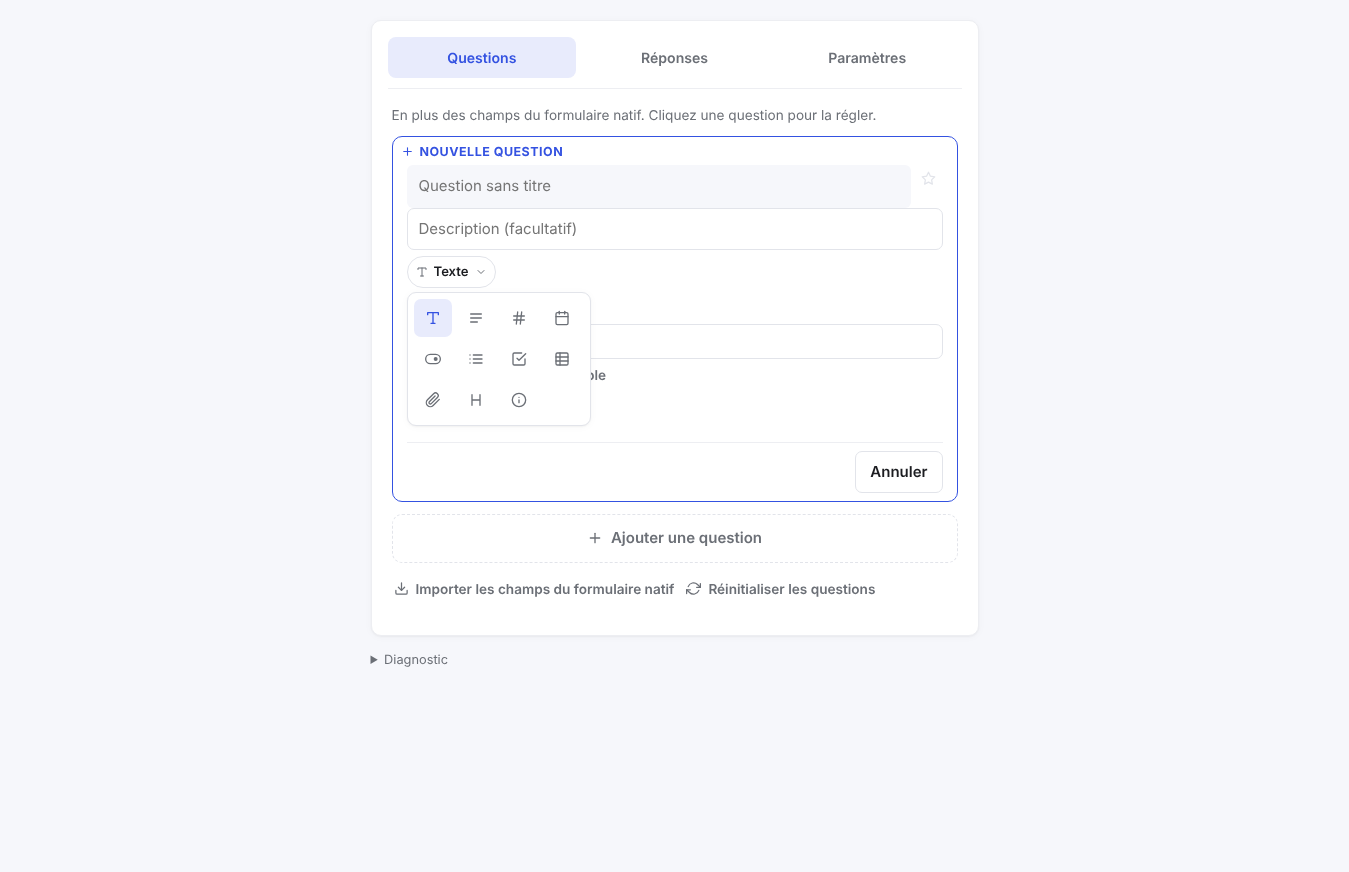
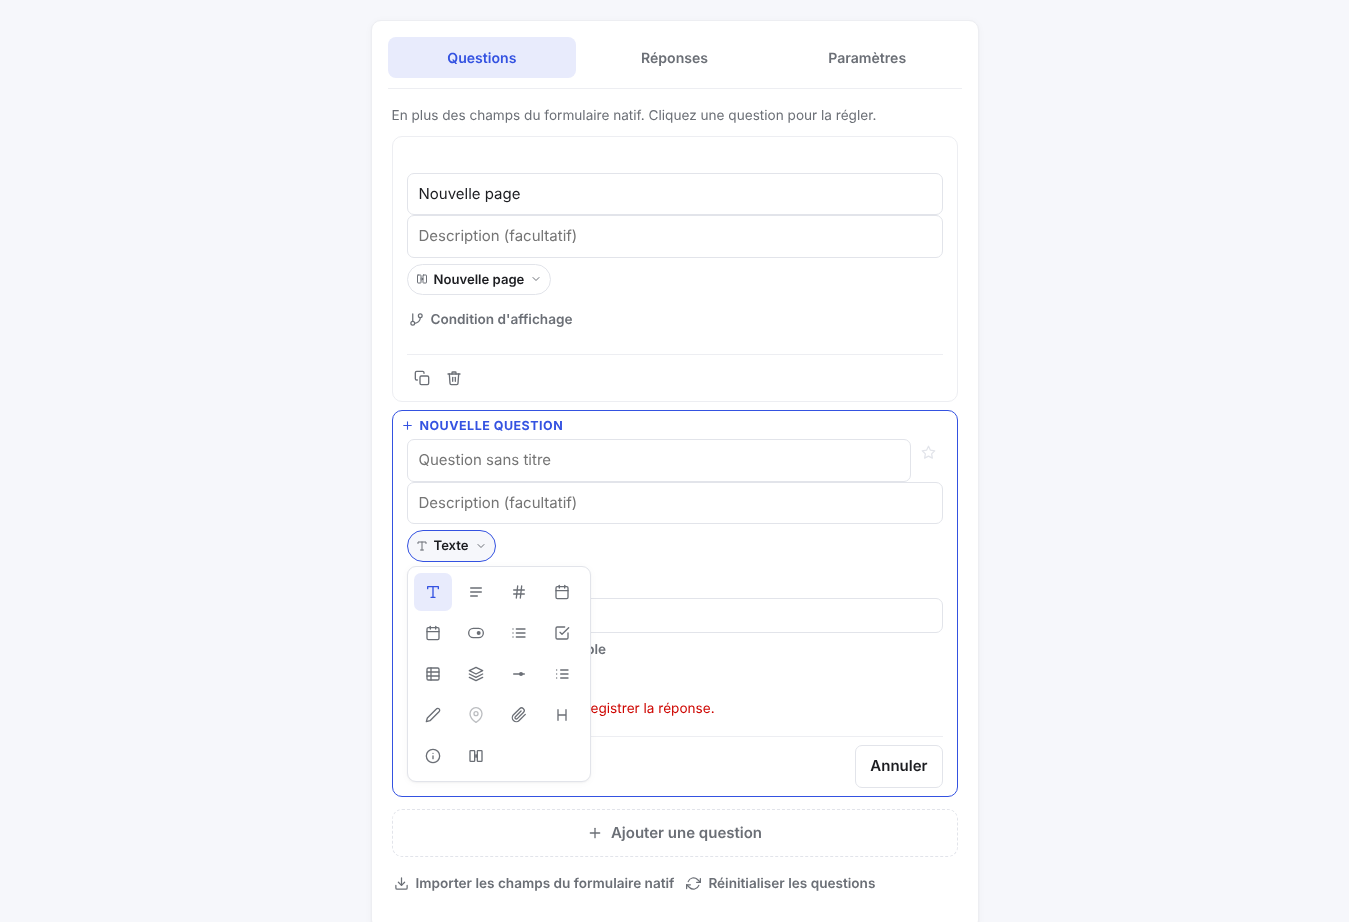
Rafraîchit les captures d'écran du catalogue avec les nouveaux types de question
Reprend 3 des 7 captures de docs/07-checklist-catalogue-gristgouv.md avec
Playwright contre l'environnement de test Grist Docker, maintenant que main
inclut les nouveaux types de question (date et heure, liste de références,
échelle, classement, signature/dessin, lieu sur carte grisé par défaut) et
le saut d'étape conditionnel entre pages. Met à jour la légende des images
et la remarque sur leur fraîcheur en conséquence.

Claude-Session: https://claude.ai/code/session_01EW5VPr8dfe5eSm4t33mKKk

diff --git a/docs/07-checklist-catalogue-gristgouv.md b/docs/07-checklist-catalogue-gristgouv.md
@@ -131,13 +131,13 @@ Retours bienvenus avant la demande d'ajout à gristgouv/widgets-config.
 
 ## 3. Captures d'écran
 
-**Pas exigées par le manifeste** (section 1), mais prises quand même pour le corps de la PR et l'annonce forum. Prises le 21 octobre 2026 avec Playwright (Chromium headless) contre un vrai environnement Grist auto-hébergé local (`tests/grist-env/start-grist-test.sh`), donc avec du vrai rendu, de vraies données de test (tables `Departements`/`Villes`), pas des maquettes :
+**Pas exigées par le manifeste** (section 1), mais prises quand même pour le corps de la PR et l'annonce forum. Prises le 21 octobre 2026 avec Playwright (Chromium headless) contre un vrai environnement Grist auto-hébergé local (`tests/grist-env/start-grist-test.sh`), donc avec du vrai rendu, de vraies données de test (tables `Departements`/`Villes`), pas des maquettes. **Reprises le même jour** après la fusion des commits de deux autres sessions qui ont ajouté de nouveaux types de question (date et heure, liste de références, échelle, classement, signature/dessin, lieu sur carte) et le saut d'étape conditionnel entre pages :
 
 | Fichier | Contenu |
 |---|---|
-| `docs/images/editeur-questions.png` | Écran concepteur, onglet **Questions**, formulaire natif « Reponses » détecté automatiquement, adresse de partage retrouvée |
-| `docs/images/editeur-nouvelle-question.png` | Même écran, carte « Nouvelle question » ouverte avec le sélecteur de type (11 icônes : texte, paragraphe, nombre, date, choix, liste, choix multiples, table, pièce jointe, titre, bloc d'info) |
-| `docs/images/editeur-parametres.png` | Onglet **Paramètres** : adresse à diffuser, QR code, apparence (titre, description, logo, couleur d'accent) |
+| `docs/images/editeur-questions.png` | Écran concepteur, onglet **Questions** : une carte « Nouvelle page » (étapes) et une carte « Échelle » (« Niveau de satisfaction », valeurs 1 à 5) déjà posées dans la liste |
+| `docs/images/editeur-nouvelle-question.png` | Sélecteur de type grand ouvert : les 20 types actuels (texte, paragraphe, nombre, date, date et heure, oui/non, choix, choix multiples, choix depuis une table, liste de références, échelle, classement, signature/dessin, lieu sur carte — visiblement grisé, dépendance externe non chargée par défaut —, pièces jointes, titre de section, bloc d'info, nouvelle page) |
+| `docs/images/editeur-parametres.png` | Onglet **Paramètres** : adresse à diffuser, QR code, apparence (titre, description, logo, couleur d'accent, forme des coins) |
 | `docs/images/repondant-bureau-clair.png` | Vue répondant (`public-form.html`), bureau (1280×900), thème clair, avec les vraies valeurs de référence (départements, villes) |
 | `docs/images/repondant-bureau-sombre.png` | Même vue, thème sombre (`prefers-color-scheme: dark`) |
 | `docs/images/repondant-mobile-clair.png` | Même vue, mobile (390×844), thème clair |
@@ -145,7 +145,7 @@ Retours bienvenus avant la demande d'ajout à gristgouv/widgets-config.
 
 Détail technique pour qui reproduirait ces captures : `public-form.html#form=<lien du formulaire natif publié>` lit la définition via `GET /api/s/<clé>/forms/<section>` en anonyme, donc aucune donnée du document outre ce que le formulaire natif expose déjà. L'écran éditeur a demandé de contourner localement un point de sécurité volontaire du widget — `poc/js/plugin-loader.js` ne charge `grist-plugin-api.js` que depuis `https://docs.getgrist.com` (liste blanche anti-usurpation, voir le commentaire du fichier), un hôte hors de la politique réseau de cet environnement d'agent. Contournement fait uniquement **côté navigateur, pour la capture**, en servant le même fichier que le conteneur Grist de test héberge lui-même (`http://localhost:8484/grist-plugin-api.js`) : aucune modification du code du widget.
 
-**Remarque sur la fraîcheur des captures** : prises contre l'état du code au moment de cette session. Deux autres sessions travaillent en parallèle sur `poc/js/` (nouveaux types de question, audit UI/UX) ; la grille de types dans `editeur-nouvelle-question.png` peut donc avoir gagné des icônes depuis. Capture illustrative du principe (trois onglets, carte de question, apparence) : à reprendre en un coup (le script Playwright ci-dessus est réutilisable tel quel) si l'écran a notablement changé avant l'ouverture réelle de la PR.
+**Remarque sur la fraîcheur des captures** : reprises après `git fetch origin main` + fusion des derniers commits des deux autres sessions actives sur `poc/js/`, donc à jour de la grille de 20 types au 21 octobre 2026. Ces deux autres sessions continuent de travailler en parallèle (nouveaux types de question, audit UI/UX) : si l'écran a encore changé notablement d'ici l'ouverture réelle de la PR, reprendre ces captures une dernière fois avant de les joindre — le script Playwright n'est pas versionné dans le dépôt (fichiers temporaires du scratchpad de la session), mais sa méthode est documentée ci-dessus et tient en quelques lignes : `test/login`, naviguer sur la page du widget avec `?style=singlePage`, intercepter la requête vers `docs.getgrist.com/grist-plugin-api.js` pour la servir depuis le conteneur Grist local, puis cliquer dans l'iframe (`.qtype-pill`, `.qtype-opt[data-kind="..."]`, onglets `Questions`/`Paramètres`).
 
 **Captures qui restent à prendre manuellement si on veut aller plus loin** (non bloquant, le manifeste n'en demande aucune) :
 - Une question conditionnelle visiblement masquée/affichée (« Afficher si »), pour illustrer le vrai différenciateur du widget.
